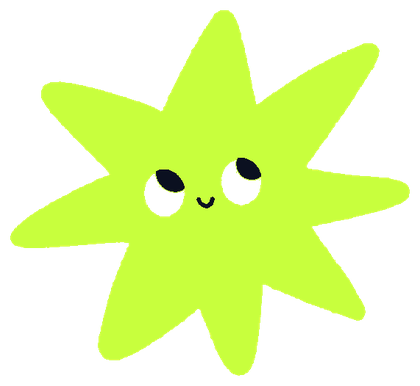
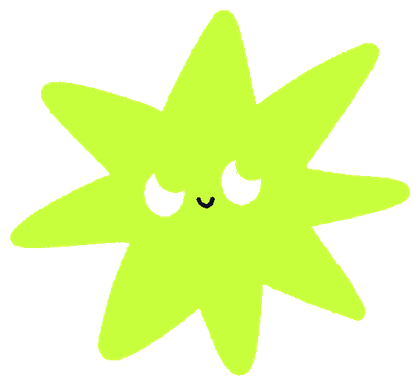
22.COGNOVA: second revision pass (spacing, cards, mascot eye-tracking)
- Proof stats: evenly distribute 4 columns across the full content width
  (dropped left dividers, using gap instead of asymmetric padding)
- Perspective: principle numbers 16px, list row spacing +12px
- Capabilities intro: repositioned to match Perspective's title/body column
  layout and vertical offset (same 5fr/7fr split, same 44px top offset)
- Capabilities cards: unified media aspect ratio so all 4 cards are the same
  height, badge icons enlarged and diversified (2 new symbols: ring, wave),
  dark-media cards now flip to key-color blue (not black) on hover
- How We Move: DISCOVER/DESIGN/DELIVER labels to 16px, swapped the DELIVER
  row's icon to a distinct shape
- Selected Work: icons unified to 48px / top-right on all 3 cards; Y-Campus
  wordmark enlarged to 300px and repositioned bottom-left with its stem
  masked by the card edge; GenAI Ops orbit is now a filled rotating disc
  instead of an outline ring (fixed a stacking bug this caused, text was
  getting covered); grid ratio brought closer to even (1.05fr/.95fr);
  card meta vertically centered; bottom gap to Partners reduced to 64px
- Contact: email pinned 48px below the title (dropped the space-between
  layout), mascot enlarged 3x with white sclera + cursor-tracking pupils
  (eyes were reprocessed to erase the old baked-in eye linework so the new
  overlay fully replaces them), 0 gap to footer, TOP button moved in-section
  as a 64x64 square anchored bottom-right

Changed region(s): [[0.3714, 0.4352, 0.4643, 0.4974], [0.5571, 0.4041, 0.619, 0.4663]]

diff --git a/ai-landingpage/IT·마케팅/22.COGNOVA/styles.css b/ai-landingpage/IT·마케팅/22.COGNOVA/styles.css
@@ -8,34 +8,38 @@
 .hero-ticker{height:54px;background:var(--lime);color:var(--ink);overflow:hidden;display:flex;align-items:center}.ticker-track{display:flex;width:max-content;animation:marquee 22s linear infinite}.ticker-group{display:flex;gap:80px;margin-right:80px;font:700 16px/1 'Space Grotesk',sans-serif;letter-spacing:.06em;white-space:nowrap}
 @keyframes spin{to{transform:rotate(378deg)}}@keyframes breathe{50%{transform:scale(1.08);box-shadow:0 0 120px rgba(200,255,61,.4)}}@keyframes marquee{to{transform:translateX(-50%)}}
 
-.proof{background:var(--ink);color:white;padding:70px 0}.proof-grid{display:grid;grid-template-columns:repeat(4,1fr)}.proof-item{padding:12px 28px}.proof-item:first-child{padding-left:0}.proof-item strong{display:block;font:600 clamp(48px,6vw,92px)/.9 'Space Grotesk',sans-serif;color:var(--lime);letter-spacing:-.07em}.proof-item sup{font-size:.35em}.proof-item span{display:block;margin-top:16px;color:#b8bdca;font-size:14px}
+.proof{background:var(--ink);color:white;padding:70px 0}.proof-grid{display:grid;grid-template-columns:repeat(4,1fr);gap:28px}.proof-item{padding:12px 0}.proof-item strong{display:block;font:600 clamp(48px,6vw,92px)/.9 'Space Grotesk',sans-serif;color:var(--lime);letter-spacing:-.07em}.proof-item sup{font-size:.35em}.proof-item span{display:block;margin-top:16px;color:#b8bdca;font-size:14px}
 
-.perspective{padding:clamp(100px,12vw,190px) 0;background:var(--paper)}.perspective-grid{display:grid;grid-template-columns:5fr 7fr;gap:clamp(52px,9vw,150px)}.section-intro{position:sticky;top:120px;align-self:start}.section-head .eyebrow,.method-title .eyebrow{color:var(--blue);margin-bottom:30px}.section-intro h2{font-size:48px;line-height:1.14;letter-spacing:-.03em}.method-title h2{font-size:clamp(38px,4.5vw,74px);line-height:1.08;letter-spacing:-.055em}.section-intro em,.method-title em{font-style:normal;color:var(--blue)}.perspective-body{padding-top:44px}.lead{font-size:20px;line-height:1.55;font-weight:700;letter-spacing:-.02em;max-width:600px}.body-copy{max-width:720px;margin-top:34px;color:var(--muted);font-size:17px;line-height:1.75}.principle-list{margin-top:80px}.principle{position:relative;display:grid;grid-template-columns:64px 1fr auto;gap:24px;align-items:center;padding:28px 0;border-bottom:1px solid var(--line);transition:color .3s}.principle::after{content:"";position:absolute;left:0;right:0;bottom:-1px;height:2px;background:var(--blue);transform:scaleX(0);transform-origin:left;transition:transform .45s var(--ease)}.principle:hover::after{transform:scaleX(1)}.principle:hover>span,.principle:hover h3,.principle:hover p{color:var(--blue)}.principle>span{font:600 12px/1 'Space Grotesk',sans-serif;color:var(--blue)}.principle h3{font:600 clamp(18px,1.7vw,26px)/1.2 'Space Grotesk',sans-serif}.principle p{color:var(--muted);font-size:14px}
+.perspective{padding:clamp(100px,12vw,190px) 0;background:var(--paper)}.perspective-grid{display:grid;grid-template-columns:5fr 7fr;gap:clamp(52px,9vw,150px)}.section-intro{position:sticky;top:120px;align-self:start}.section-head .eyebrow,.method-title .eyebrow{color:var(--blue);margin-bottom:30px}.section-intro h2{font-size:48px;line-height:1.14;letter-spacing:-.03em}.method-title h2{font-size:clamp(38px,4.5vw,74px);line-height:1.08;letter-spacing:-.055em}.section-intro em,.method-title em{font-style:normal;color:var(--blue)}.perspective-body{padding-top:44px}.lead{font-size:20px;line-height:1.55;font-weight:700;letter-spacing:-.02em;max-width:600px}.body-copy{max-width:720px;margin-top:34px;color:var(--muted);font-size:17px;line-height:1.75}.principle-list{margin-top:80px}.principle{position:relative;display:grid;grid-template-columns:64px 1fr auto;gap:24px;align-items:center;padding:34px 0;border-bottom:1px solid var(--line);transition:color .3s}.principle::after{content:"";position:absolute;left:0;right:0;bottom:-1px;height:2px;background:var(--blue);transform:scaleX(0);transform-origin:left;transition:transform .45s var(--ease)}.principle:hover::after{transform:scaleX(1)}.principle:hover>span,.principle:hover h3,.principle:hover p{color:var(--blue)}.principle>span{font:600 16px/1 'Space Grotesk',sans-serif;color:var(--blue)}.principle h3{font:600 clamp(18px,1.7vw,26px)/1.2 'Space Grotesk',sans-serif}.principle p{color:var(--muted);font-size:14px}
 
-.services{padding:clamp(100px,11vw,170px) 0;background:white}.section-head{display:grid;grid-template-columns:1fr 2fr 1fr;gap:30px;align-items:end;margin-bottom:70px}.section-head h2{font:600 48px/1.05 'Space Grotesk',sans-serif;letter-spacing:-.02em}.section-head>p:last-child{color:var(--muted);font-size:15px;line-height:1.7}.service-grid{display:grid;grid-template-columns:repeat(2,1fr);gap:18px}.service-card{position:relative;border:1px solid var(--line);border-radius:var(--radius);overflow:hidden;background:var(--paper);transform-style:preserve-3d;transition:transform .35s var(--ease)}
-.service-media{aspect-ratio:16/10;overflow:hidden;position:relative}.service-card--wide .service-media{aspect-ratio:16/8}
+.services{padding:clamp(100px,11vw,170px) 0;background:white}.section-head{display:grid;grid-template-columns:5fr 7fr;gap:clamp(52px,9vw,150px);align-items:start;margin-bottom:70px}.section-head h2{font:600 48px/1.05 'Space Grotesk',sans-serif;letter-spacing:-.02em}.section-head>p:last-child{padding-top:44px;color:var(--muted);font-size:15px;line-height:1.7;max-width:520px}.service-grid{display:grid;grid-template-columns:repeat(2,1fr);gap:18px}.service-card{position:relative;border:1px solid var(--line);border-radius:var(--radius);overflow:hidden;background:var(--paper);transform-style:preserve-3d;transition:transform .35s var(--ease)}
+.service-media{aspect-ratio:16/10;overflow:hidden;position:relative}
 .svc-pattern{position:absolute;inset:0;display:flex;flex-wrap:wrap;align-content:center;justify-content:center;gap:14px;padding:20px;transition:transform .6s var(--ease)}.service-card:hover .svc-pattern{transform:scale(1.05)}
-.badge{width:19%;aspect-ratio:1;min-width:38px;max-width:64px;border-radius:50%;display:flex;align-items:center;justify-content:center;background:var(--bc);color:var(--ic)}.badge svg{width:52%;height:52%}
-.service-info{display:grid;grid-template-columns:1fr auto;gap:20px;align-items:center;padding:26px;min-height:150px;background:var(--lime);color:var(--ink);transition:background .3s,color .3s}.service-card:hover .service-info{background:var(--ink);color:#fff}.service-info h3{font:600 clamp(22px,2vw,32px)/1.1 'Space Grotesk',sans-serif}.service-info p{margin-top:8px;color:var(--ink);opacity:.72;font-size:14px}.service-card:hover .service-info p{color:#fff;opacity:.7}.service-info i{font-style:normal;font-size:48px;line-height:1;color:var(--blue)}.service-card:hover .service-info i{color:var(--lime)}
+.badge{width:24%;aspect-ratio:1;min-width:44px;max-width:80px;border-radius:50%;display:flex;align-items:center;justify-content:center;background:var(--bc);color:var(--ic)}.badge svg{width:52%;height:52%}
+.service-info{display:grid;grid-template-columns:1fr auto;gap:20px;align-items:center;padding:26px;min-height:150px;background:var(--lime);color:var(--ink);transition:background .3s,color .3s}.service-card:hover .service-info{background:var(--ink);color:#fff}.service-card--dark:hover .service-info{background:var(--blue);color:#fff}.service-info h3{font:600 clamp(22px,2vw,32px)/1.1 'Space Grotesk',sans-serif}.service-info p{margin-top:8px;color:var(--ink);opacity:.72;font-size:14px}.service-card:hover .service-info p{color:#fff;opacity:.7}.service-info i{font-style:normal;font-size:48px;line-height:1;color:var(--blue)}.service-card:hover .service-info i{color:var(--lime)}
 
-.method{padding:clamp(110px,12vw,190px) 0;background:var(--blue);color:white}.method-grid{display:grid;grid-template-columns:5fr 7fr;gap:clamp(52px,9vw,150px)}.method-title .eyebrow{color:var(--lime)}.method-title em{color:var(--lime)}.method-steps{border-top:1px solid rgba(255,255,255,.2)}.method-step{padding:36px 0;border-bottom:1px solid rgba(255,255,255,.2);display:grid;grid-template-columns:140px 1fr 48px;gap:12px 28px;align-items:center}.method-step>span{font:600 11px/1 'Space Grotesk',sans-serif;color:var(--lime);letter-spacing:.08em;align-self:start}.method-step h3{font-size:clamp(26px,2.5vw,40px);line-height:1.15}.method-step p{grid-column:2;color:#dfe4f4;line-height:1.7;max-width:600px}.step-icon{grid-column:3;grid-row:1/3;justify-self:end;align-self:center;width:40px;height:40px;color:var(--lime)}.step-icon svg{width:100%;height:100%}
+.method{padding:clamp(110px,12vw,190px) 0;background:var(--blue);color:white}.method-grid{display:grid;grid-template-columns:5fr 7fr;gap:clamp(52px,9vw,150px)}.method-title .eyebrow{color:var(--lime)}.method-title em{color:var(--lime)}.method-steps{border-top:1px solid rgba(255,255,255,.2)}.method-step{padding:36px 0;border-bottom:1px solid rgba(255,255,255,.2);display:grid;grid-template-columns:140px 1fr 48px;gap:12px 28px;align-items:center}.method-step>span{font:600 16px/1 'Space Grotesk',sans-serif;color:var(--lime);letter-spacing:.08em;align-self:start}.method-step h3{font-size:clamp(26px,2.5vw,40px);line-height:1.15}.method-step p{grid-column:2;color:#dfe4f4;line-height:1.7;max-width:600px}.step-icon{grid-column:3;grid-row:1/3;justify-self:end;align-self:center;width:40px;height:40px;color:var(--lime)}.step-icon svg{width:100%;height:100%}
 
-.work{padding:clamp(100px,11vw,170px) 0}.section-head--work{grid-template-columns:1fr 3fr}.work-grid{display:grid;grid-template-columns:1.35fr .65fr;gap:18px}.work-card{background:white;border-radius:var(--radius);overflow:hidden;border:1px solid var(--line)}.work-card--hero{grid-row:span 2}.work-art{position:relative;min-height:300px;overflow:hidden}.work-card--hero .work-art{min-height:660px}
-.work-icon{position:absolute;top:24px;right:24px;width:34px;height:34px;color:var(--lime)}.work-icon--dark{color:var(--blue)}.work-icon svg{width:100%;height:100%}
+.work{padding-top:clamp(100px,11vw,170px);padding-bottom:64px}.section-head--work{grid-template-columns:1fr 3fr}.work-grid{display:grid;grid-template-columns:1.05fr .95fr;gap:18px}.work-card{background:white;border-radius:var(--radius);overflow:hidden;border:1px solid var(--line)}.work-card--hero{grid-row:span 2}.work-art{position:relative;min-height:300px;overflow:hidden}.work-card--hero .work-art{min-height:660px}
+.work-icon{position:absolute;top:24px;right:24px;width:48px;height:48px;color:var(--lime);z-index:1}.work-icon--dark{color:var(--blue)}.work-icon svg{width:100%;height:100%}
 .art-pay{background:linear-gradient(145deg,#173bff,#07104b)}.art-window{position:absolute;width:74%;height:62%;left:13%;top:20%;border-radius:24px;background:rgba(255,255,255,.94);transform:rotate(-7deg);box-shadow:0 40px 80px rgba(0,0,0,.3)}.art-window i{display:block;height:14%;margin:8%;border-radius:999px;background:#dbe1ff}.art-window i:nth-child(2){width:62%;background:var(--lime)}.art-window i:nth-child(3){width:38%;background:var(--blue)}
-.art-campus{background:var(--lime);padding:28px}.art-campus .work-icon{top:24px;left:24px;right:auto}.art-campus b{font:700 170px/.8 'Space Grotesk',sans-serif;color:var(--blue);letter-spacing:-.12em}.art-campus span{position:absolute;right:28px;bottom:28px;text-align:right;font:600 22px/1.05 'Space Grotesk',sans-serif}
-.art-ai{background:#d9dcff;display:flex;flex-direction:column;align-items:center;justify-content:center}.art-ai b{font:700 56px/.9 'Space Grotesk',sans-serif;letter-spacing:-.07em;color:var(--blue)}.art-ai small{margin-top:12px;font:600 10px/1 'Space Grotesk',sans-serif;letter-spacing:.15em}.mini-orbit{position:absolute;width:210px;height:210px;border:1px solid var(--blue);border-radius:50%;animation:spin 10s linear infinite}.mini-orbit::before{content:"";position:absolute;width:18px;height:18px;border-radius:50%;background:var(--lime);top:8px;left:32px}
-.work-meta{display:grid;grid-template-columns:1fr 1fr;gap:24px;padding:26px}.work-meta span{font:600 10px/1 'Space Grotesk',sans-serif;color:var(--blue);letter-spacing:.08em}.work-meta h3{margin-top:8px;font:600 28px/1 'Space Grotesk',sans-serif}.work-meta>p{color:var(--muted);font-size:14px;line-height:1.55}
+.art-campus{position:relative;background:var(--lime);padding:28px}.art-campus b{position:absolute;left:24px;bottom:-58px;font:700 300px/.75 'Space Grotesk',sans-serif;color:var(--blue);letter-spacing:-.12em}.art-campus span{position:absolute;z-index:1;right:28px;bottom:28px;text-align:right;font:600 22px/1.05 'Space Grotesk',sans-serif}
+.art-ai{background:#d9dcff;display:flex;flex-direction:column;align-items:center;justify-content:center}.art-ai b{position:relative;z-index:1;font:700 56px/.9 'Space Grotesk',sans-serif;letter-spacing:-.07em;color:var(--blue)}.art-ai small{position:relative;z-index:1;margin-top:12px;font:600 10px/1 'Space Grotesk',sans-serif;letter-spacing:.15em}.mini-orbit{position:absolute;width:210px;height:210px;background:var(--blue);border-radius:50%;animation:spin 10s linear infinite}.mini-orbit::before{content:"";position:absolute;width:20px;height:20px;border-radius:50%;background:var(--lime);top:10px;left:34px}
+.work-meta{display:grid;grid-template-columns:1fr 1fr;gap:24px;padding:26px;align-items:center}.work-meta span{font:600 10px/1 'Space Grotesk',sans-serif;color:var(--blue);letter-spacing:.08em}.work-meta h3{margin-top:8px;font:600 28px/1 'Space Grotesk',sans-serif}.work-meta>p{color:var(--muted);font-size:14px;line-height:1.55}
 
 .partners{padding:80px 0;overflow:hidden}.partner-marquee{white-space:nowrap}.partner-marquee div{width:max-content;font:600 clamp(56px,8vw,130px)/.9 'Space Grotesk',sans-serif;letter-spacing:-.06em;color:#d8dae0;animation:marquee 25s linear infinite}
-.contact{position:relative;background:var(--blue);color:white;overflow:hidden}.contact-noise{position:absolute;inset:0;background:radial-gradient(circle at 78% 20%,rgba(200,255,61,.34),transparent 27%),linear-gradient(rgba(255,255,255,.08) 1px,transparent 1px),linear-gradient(90deg,rgba(255,255,255,.08) 1px,transparent 1px);background-size:auto,56px 56px,56px 56px}.contact-inner{position:relative;min-height:76vh;padding-top:110px;padding-bottom:100px;display:flex;flex-direction:column;justify-content:space-between}.contact h2{font-size:48px;line-height:1.18;letter-spacing:-.02em}.contact h2 em{font-style:normal;color:var(--lime)}
-.contact a.contact-email{display:inline-flex;align-items:center;font:600 clamp(16px,1.6vw,22px)/1 'Space Grotesk',sans-serif;width:max-content;padding:20px 30px;border-radius:28px;background:rgba(255,255,255,.12);border:1px solid rgba(255,255,255,.4)}
-.mascot{position:absolute;right:6%;bottom:8%;width:clamp(120px,14vw,220px);z-index:2}.mascot img{width:100%;filter:drop-shadow(0 20px 40px rgba(0,0,0,.28))}.mascot-blink{position:absolute;width:8%;height:9%;background:var(--ink);border-radius:50%;animation:mascot-blink 4.6s ease-in-out infinite}.mascot-blink--l{left:40.3%;top:46.7%}.mascot-blink--r{left:59%;top:43.7%}
-@keyframes mascot-blink{0%,92%,100%{opacity:0;transform:translate(-50%,-50%) scaleY(0)}95%,97%{opacity:1;transform:translate(-50%,-50%) scaleY(1)}}
+.contact{position:relative;min-height:68vh;background:var(--blue);color:white;overflow:hidden}.contact-noise{position:absolute;inset:0;background:radial-gradient(circle at 78% 20%,rgba(200,255,61,.34),transparent 27%),linear-gradient(rgba(255,255,255,.08) 1px,transparent 1px),linear-gradient(90deg,rgba(255,255,255,.08) 1px,transparent 1px);background-size:auto,56px 56px,56px 56px}.contact-inner{position:relative;padding-top:110px;display:flex;flex-direction:column}.contact h2{font-size:48px;line-height:1.18;letter-spacing:-.02em}.contact h2 em{font-style:normal;color:var(--lime)}
+.contact a.contact-email{display:inline-flex;align-items:center;margin-top:48px;font:600 clamp(16px,1.6vw,22px)/1 'Space Grotesk',sans-serif;width:max-content;padding:20px 30px;border-radius:28px;background:rgba(255,255,255,.12);border:1px solid rgba(255,255,255,.4)}
+.mascot{position:absolute;right:6%;bottom:8%;width:clamp(360px,42vw,660px);z-index:2}.mascot img{width:100%;filter:drop-shadow(0 20px 40px rgba(0,0,0,.28))}
+.mascot-eye{position:absolute;width:11%;height:12.5%;background:#fff;border-radius:50%;display:flex;align-items:center;justify-content:center;animation:mascot-blink 4.6s ease-in-out infinite}
+.mascot-eye--l{left:40.3%;top:46.7%;transform:translate(-50%,-50%)}
+.mascot-eye--r{left:59%;top:43.7%;transform:translate(-50%,-50%)}
+.mascot-pupil{width:40%;height:40%;border-radius:50%;background:var(--ink);transition:transform .05s linear}
+@keyframes mascot-blink{0%,92%,100%{transform:translate(-50%,-50%) scaleY(1)}95%,97%{transform:translate(-50%,-50%) scaleY(.08)}}
 
-.back-to-top{display:block;width:max-content;margin:0 auto 32px;padding:11px 24px;background:var(--lime);color:var(--blue);font:700 12px/1 'Space Grotesk',sans-serif;letter-spacing:.1em;border-radius:10px;text-align:center}
+.back-to-top{position:absolute;right:var(--side);bottom:28px;z-index:3;width:64px;height:64px;display:flex;align-items:center;justify-content:center;background:var(--lime);color:var(--blue);font:700 12px/1 'Space Grotesk',sans-serif;letter-spacing:.06em;border-radius:12px}
 .footer{padding:60px var(--side);display:flex;justify-content:space-between;align-items:end;gap:32px;background:var(--ink);color:white}.brand--footer{color:white}.brand--footer img{filter:brightness(0) invert(1)}.footer-info{text-align:left}.footer-info p{font-size:13px;line-height:1.7;color:#aeb4c4}
 
 @media(max-width:960px){.hero-grid{grid-template-columns:1fr}.hero-title{font-size:clamp(64px,13vw,112px)}.hero-visual{aspect-ratio:1.4;max-height:none}.perspective-grid,.method-grid{grid-template-columns:1fr}.section-intro{position:static}.section-head{grid-template-columns:1fr 2fr}.section-head>p:last-child{grid-column:2}.work-grid{grid-template-columns:1fr}.work-card--hero{grid-row:auto}.work-card--hero .work-art{min-height:520px}.proof-grid{grid-template-columns:repeat(2,1fr);gap:32px 0}.service-card--wide .service-media{aspect-ratio:16/10}}
-@media(max-width:720px){:root{--side:18px;--radius:20px}.site-header{top:8px;height:56px;width:calc(100% - 16px);padding:0 14px;grid-template-columns:1fr auto}.brand{width:148px}.desktop-nav,.header-cta{display:none}.menu-button{display:flex;width:38px;height:38px;border-radius:50%;background:var(--ink);flex-direction:column;align-items:center;justify-content:center;gap:5px;z-index:920}.menu-button span{width:15px;height:1px;background:white;transition:transform .25s}.menu-button.is-open span:first-child{transform:translateY(3px) rotate(45deg)}.menu-button.is-open span:last-child{transform:translateY(-3px) rotate(-45deg)}.hero{padding-top:88px}.hero-grid{gap:42px;padding-bottom:36px}.hero-copy{padding-top:18px}.hero-title{font-size:clamp(51px,15vw,72px);line-height:.91}.hero-title span{white-space:normal}.hero-bottom{margin-top:34px;align-items:center}.hero-bottom p{font-size:16px}.hero-visual{aspect-ratio:1;max-height:440px}.hero-ticker{height:46px}.proof{padding:54px 0}.proof-grid{grid-template-columns:repeat(2,1fr)}.proof-item{padding:8px 16px}.proof-item strong{font-size:52px}.proof-item span{font-size:12px;min-height:34px}.perspective,.services,.work{padding:88px 0}.section-intro h2{font-size:38px}.method-title h2{font-size:42px}.perspective-body{padding-top:0}.lead{font-size:22px}.body-copy{font-size:15px}.principle-list{margin-top:52px}.principle{grid-template-columns:38px 1fr;padding:22px 0;gap:10px}.principle p{grid-column:2}.section-head{display:block;margin-bottom:42px}.section-head h2{font-size:38px}.section-head>p:last-child{margin-top:20px}.service-grid{grid-template-columns:1fr}.service-info{padding:20px;grid-template-columns:1fr auto;min-height:auto}.method{padding:88px 0}.method-grid{gap:56px}.method-step{grid-template-columns:1fr;padding:28px 0}.method-step p{grid-column:auto}.step-icon{grid-column:auto;grid-row:auto;justify-self:start;margin-top:10px;width:30px;height:30px}.work-card--hero .work-art{min-height:420px}.work-art{min-height:280px}.work-meta{grid-template-columns:1fr;padding:20px}.partners{padding:66px 0}.contact-inner{min-height:72svh;padding-top:88px;padding-bottom:62px}.contact h2{font-size:38px}.mascot{display:none}.footer{flex-direction:column;align-items:flex-start;padding:48px var(--side)}}
+@media(max-width:720px){:root{--side:18px;--radius:20px}.site-header{top:8px;height:56px;width:calc(100% - 16px);padding:0 14px;grid-template-columns:1fr auto}.brand{width:148px}.desktop-nav,.header-cta{display:none}.menu-button{display:flex;width:38px;height:38px;border-radius:50%;background:var(--ink);flex-direction:column;align-items:center;justify-content:center;gap:5px;z-index:920}.menu-button span{width:15px;height:1px;background:white;transition:transform .25s}.menu-button.is-open span:first-child{transform:translateY(3px) rotate(45deg)}.menu-button.is-open span:last-child{transform:translateY(-3px) rotate(-45deg)}.hero{padding-top:88px}.hero-grid{gap:42px;padding-bottom:36px}.hero-copy{padding-top:18px}.hero-title{font-size:clamp(51px,15vw,72px);line-height:.91}.hero-title span{white-space:normal}.hero-bottom{margin-top:34px;align-items:center}.hero-bottom p{font-size:16px}.hero-visual{aspect-ratio:1;max-height:440px}.hero-ticker{height:46px}.proof{padding:54px 0}.proof-grid{grid-template-columns:repeat(2,1fr)}.proof-item{padding:8px 16px}.proof-item strong{font-size:52px}.proof-item span{font-size:12px;min-height:34px}.perspective,.services,.work{padding:88px 0}.section-intro h2{font-size:38px}.method-title h2{font-size:42px}.perspective-body{padding-top:0}.lead{font-size:22px}.body-copy{font-size:15px}.principle-list{margin-top:52px}.principle{grid-template-columns:38px 1fr;padding:22px 0;gap:10px}.principle p{grid-column:2}.section-head{display:block;margin-bottom:42px}.section-head h2{font-size:38px}.section-head>p:last-child{margin-top:20px;padding-top:0;max-width:none}.service-grid{grid-template-columns:1fr}.service-info{padding:20px;grid-template-columns:1fr auto;min-height:auto}.method{padding:88px 0}.method-grid{gap:56px}.method-step{grid-template-columns:1fr;padding:28px 0}.method-step p{grid-column:auto}.step-icon{grid-column:auto;grid-row:auto;justify-self:start;margin-top:10px;width:30px;height:30px}.work-card--hero .work-art{min-height:420px}.work-art{min-height:280px}.work-meta{grid-template-columns:1fr;padding:20px}.partners{padding:66px 0}.contact{min-height:56svh}.contact-inner{padding-top:88px}.contact h2{font-size:38px}.contact a.contact-email{margin-top:32px}.mascot{display:none}.back-to-top{position:static;margin:24px 0 0 auto}.footer{flex-direction:column;align-items:flex-start;padding:48px var(--side)}}
 @media(prefers-reduced-motion:reduce){html{scroll-behavior:auto}*,*::before,*::after{animation-duration:.01ms!important;animation-iteration-count:1!important;transition-duration:.01ms!important}}

diff --git a/ai-landingpage/IT·마케팅/22.COGNOVA/index.html b/ai-landingpage/IT·마케팅/22.COGNOVA/index.html
@@ -19,6 +19,8 @@ Hero 8-4 / Proof 3-3-3-3 / About 5-7 / Services 8-4 / Method 5-7 / Projects 7-5 
 <symbol id="ic-blob" viewBox="0 0 100 100"><path fill="currentColor" d="M 50.0,15.2 C 58.2,15.9 65.6,21.8 72.4,27.6 C 79.2,33.4 90.9,42.7 90.7,50.0 C 90.6,57.3 78.2,65.0 71.4,71.4 C 64.6,77.9 57.8,88.0 50.0,88.6 C 42.2,89.3 29.8,81.6 24.8,75.2 C 19.8,68.7 20.3,58.7 20.0,50.0 C 19.7,41.3 18.0,28.8 23.0,23.0 C 28.0,17.2 41.8,14.4 50.0,15.2 Z"/></symbol>
 <symbol id="ic-dots3" viewBox="0 0 100 100"><g fill="currentColor"><circle cx="50" cy="22" r="16"/><circle cx="24" cy="66" r="16"/><circle cx="76" cy="66" r="16"/></g></symbol>
 <symbol id="ic-squiggle" viewBox="0 0 100 100"><path fill="none" stroke="currentColor" stroke-width="9" stroke-linecap="round" d="M10,70 C30,20 55,90 72,45"/><path fill="currentColor" d="M62,34 L90,40 L74,62 Z"/></symbol>
+<symbol id="ic-ring" viewBox="0 0 100 100"><circle cx="50" cy="50" r="34" fill="none" stroke="currentColor" stroke-width="12"/></symbol>
+<symbol id="ic-wave" viewBox="0 0 100 100"><path fill="none" stroke="currentColor" stroke-width="10" stroke-linecap="round" d="M6,50 C22,20 38,80 50,50 C62,20 78,80 94,50"/></symbol>
 </defs>
 </svg>
 
@@ -74,19 +76,19 @@ Hero 8-4 / Proof 3-3-3-3 / About 5-7 / Services 8-4 / Method 5-7 / Projects 7-5 
             <span class="badge" style="--bc:var(--ink);--ic:var(--lime)"><svg viewBox="0 0 100 100"><use href="#ic-burst"/></svg></span>
             <span class="badge" style="--bc:#fff;--ic:var(--ink)"><svg viewBox="0 0 100 100"><use href="#ic-dots3"/></svg></span>
             <span class="badge" style="--bc:var(--lime);--ic:var(--blue)"><svg viewBox="0 0 100 100"><use href="#ic-squiggle"/></svg></span>
-            <span class="badge" style="--bc:#fff;--ic:var(--blue)"><svg viewBox="0 0 100 100"><use href="#ic-asterisk"/></svg></span>
+            <span class="badge" style="--bc:#fff;--ic:var(--blue)"><svg viewBox="0 0 100 100"><use href="#ic-wave"/></svg></span>
           </div>
         </div>
         <div class="service-info"><div><h3>Experience Strategy</h3><p>사용자 리서치 · 서비스 전략 · UX 컨설팅</p></div><i>↗</i></div>
       </article>
 
-      <article class="service-card reveal" data-tilt>
+      <article class="service-card service-card--dark reveal" data-tilt>
         <div class="service-media" style="background:var(--ink)">
           <div class="svc-pattern" aria-hidden="true">
             <span class="badge" style="--bc:var(--lime);--ic:var(--ink)"><svg viewBox="0 0 100 100"><use href="#ic-burst"/></svg></span>
             <span class="badge" style="--bc:#fff;--ic:var(--ink)"><svg viewBox="0 0 100 100"><use href="#ic-dots3"/></svg></span>
-            <span class="badge" style="--bc:var(--blue);--ic:var(--lime)"><svg viewBox="0 0 100 100"><use href="#ic-asterisk"/></svg></span>
-            <span class="badge" style="--bc:var(--lime);--ic:var(--blue)"><svg viewBox="0 0 100 100"><use href="#ic-blob"/></svg></span>
+            <span class="badge" style="--bc:var(--blue);--ic:var(--lime)"><svg viewBox="0 0 100 100"><use href="#ic-ring"/></svg></span>
+            <span class="badge" style="--bc:var(--lime);--ic:var(--blue)"><svg viewBox="0 0 100 100"><use href="#ic-wave"/></svg></span>
           </div>
         </div>
         <div class="service-info"><div><h3>AI Experience</h3><p>AI 에이전트 · 대화형 UX · 프로토타이핑</p></div><i>↗</i></div>
@@ -98,20 +100,20 @@ Hero 8-4 / Proof 3-3-3-3 / About 5-7 / Services 8-4 / Method 5-7 / Projects 7-5 
             <span class="badge" style="--bc:#fff;--ic:var(--blue)"><svg viewBox="0 0 100 100"><use href="#ic-dots3"/></svg></span>
             <span class="badge" style="--bc:var(--lime);--ic:var(--ink)"><svg viewBox="0 0 100 100"><use href="#ic-squiggle"/></svg></span>
             <span class="badge" style="--bc:var(--ink);--ic:var(--lime)"><svg viewBox="0 0 100 100"><use href="#ic-blob"/></svg></span>
-            <span class="badge" style="--bc:#fff;--ic:var(--ink)"><svg viewBox="0 0 100 100"><use href="#ic-burst"/></svg></span>
+            <span class="badge" style="--bc:#fff;--ic:var(--ink)"><svg viewBox="0 0 100 100"><use href="#ic-ring"/></svg></span>
           </div>
         </div>
         <div class="service-info"><div><h3>Digital Product</h3><p>제품 디자인 · 디자인 시스템 · 프론트엔드</p></div><i>↗</i></div>
       </article>
 
-      <article class="service-card service-card--wide reveal" data-tilt>
+      <article class="service-card service-card--wide service-card--dark reveal" data-tilt>
         <div class="service-media" style="background:var(--ink)">
           <div class="svc-pattern" aria-hidden="true">
             <span class="badge" style="--bc:var(--blue);--ic:var(--lime)"><svg viewBox="0 0 100 100"><use href="#ic-dots3"/></svg></span>
             <span class="badge" style="--bc:var(--lime);--ic:var(--ink)"><svg viewBox="0 0 100 100"><use href="#ic-asterisk"/></svg></span>
             <span class="badge" style="--bc:#fff;--ic:var(--ink)"><svg viewBox="0 0 100 100"><use href="#ic-squiggle"/></svg></span>
             <span class="badge" style="--bc:var(--lime);--ic:var(--blue)"><svg viewBox="0 0 100 100"><use href="#ic-burst"/></svg></span>
-            <span class="badge" style="--bc:#fff;--ic:var(--blue)"><svg viewBox="0 0 100 100"><use href="#ic-blob"/></svg></span>
+            <span class="badge" style="--bc:#fff;--ic:var(--blue)"><svg viewBox="0 0 100 100"><use href="#ic-ring"/></svg></span>
           </div>
         </div>
         <div class="service-info"><div><h3>Enterprise Delivery</h3><p>SI 협업 · 품질 관리 · 운영 고도화</p></div><i>↗</i></div>
@@ -125,7 +127,7 @@ Hero 8-4 / Proof 3-3-3-3 / About 5-7 / Services 8-4 / Method 5-7 / Projects 7-5 
     <div class="method-steps">
       <article class="method-step reveal"><span>DISCOVER</span><h3>문제를 재정의합니다</h3><p>데이터와 현장의 목소리를 함께 읽어, 해결해야 할 진짜 질문을 정합니다.</p><span class="step-icon"><svg viewBox="0 0 100 100"><use href="#ic-asterisk"/></svg></span></article>
       <article class="method-step reveal"><span>DESIGN</span><h3>빠르게 증명합니다</h3><p>핵심 흐름을 프로토타입으로 만들고 사용자 반응으로 방향을 검증합니다.</p><span class="step-icon"><svg viewBox="0 0 100 100"><use href="#ic-burst"/></svg></span></article>
-      <article class="method-step reveal"><span>DELIVER</span><h3>제품으로 완성합니다</h3><p>디자인 시스템과 코드 품질을 함께 관리해 운영 가능한 결과를 남깁니다.</p><span class="step-icon"><svg viewBox="0 0 100 100"><use href="#ic-blob"/></svg></span></article>
+      <article class="method-step reveal"><span>DELIVER</span><h3>제품으로 완성합니다</h3><p>디자인 시스템과 코드 품질을 함께 관리해 운영 가능한 결과를 남깁니다.</p><span class="step-icon"><svg viewBox="0 0 100 100"><use href="#ic-ring"/></svg></span></article>
     </div>
   </div></section>
 
@@ -146,15 +148,15 @@ Hero 8-4 / Proof 3-3-3-3 / About 5-7 / Services 8-4 / Method 5-7 / Projects 7-5 
       <h2>다음 변화를<br><em>함께 설계할까요?</em></h2>
       <a class="contact-email" href="mailto:hello@cognova.studio">hello@cognova.studio</a>
     </div>
-    <div class="mascot" aria-hidden="true">
+    <div class="mascot" id="mascot" aria-hidden="true">
       <img src="img/cognova-mascot.png" alt="">
-      <span class="mascot-blink mascot-blink--l"></span>
-      <span class="mascot-blink mascot-blink--r"></span>
+      <span class="mascot-eye mascot-eye--l"><span class="mascot-pupil"></span></span>
+      <span class="mascot-eye mascot-eye--r"><span class="mascot-pupil"></span></span>
     </div>
+    <a class="back-to-top" href="#top" aria-label="맨 위로">TOP</a>
   </section>
 </main>
 
-<a class="back-to-top" href="#top" aria-label="맨 위로">TOP</a>
 <footer class="footer">
   <a class="brand brand--footer" href="#top"><img src="img/cognova-logo.svg" alt="COGNOVA"></a>
   <div class="footer-info">

diff --git a/ai-landingpage/IT·마케팅/22.COGNOVA/script.js b/ai-landingpage/IT·마케팅/22.COGNOVA/script.js
@@ -18,4 +18,19 @@
   var visual=document.getElementById('heroVisual');
   if(visual&&!reduce&&matchMedia('(pointer:fine)').matches){visual.addEventListener('pointermove',function(e){var r=visual.getBoundingClientRect(),x=(e.clientX-r.left)/r.width-.5,y=(e.clientY-r.top)/r.height-.5;visual.style.transform='perspective(900px) rotateY('+(x*7)+'deg) rotateX('+(-y*7)+'deg)';visual.querySelector('.nova-core').style.translate=(x*18)+'px '+(y*18)+'px';});visual.addEventListener('pointerleave',function(){visual.style.transform='';visual.querySelector('.nova-core').style.translate='';});}
   if(!reduce&&matchMedia('(pointer:fine)').matches){document.querySelectorAll('[data-tilt]').forEach(function(card){card.addEventListener('pointermove',function(e){var r=card.getBoundingClientRect(),x=(e.clientX-r.left)/r.width-.5,y=(e.clientY-r.top)/r.height-.5;card.style.transform='perspective(900px) rotateY('+(x*2.5)+'deg) rotateX('+(-y*2.5)+'deg) translateY(-4px)';});card.addEventListener('pointerleave',function(){card.style.transform='';});});}
+
+  var mascot=document.getElementById('mascot');
+  if(mascot&&!reduce&&matchMedia('(pointer:fine)').matches){
+    var pupils=mascot.querySelectorAll('.mascot-pupil');
+    document.addEventListener('mousemove',function(e){
+      pupils.forEach(function(p){
+        var eye=p.parentElement,r=eye.getBoundingClientRect();
+        var cx=r.left+r.width/2,cy=r.top+r.height/2;
+        var dx=e.clientX-cx,dy=e.clientY-cy;
+        var ang=Math.atan2(dy,dx),dist=Math.min(Math.hypot(dx,dy),r.width*1.6);
+        var maxOffset=r.width*0.16,offset=(dist/(r.width*1.6))*maxOffset;
+        p.style.transform='translate('+(Math.cos(ang)*offset)+'px,'+(Math.sin(ang)*offset)+'px)';
+      });
+    },{passive:true});
+  }
 })();
